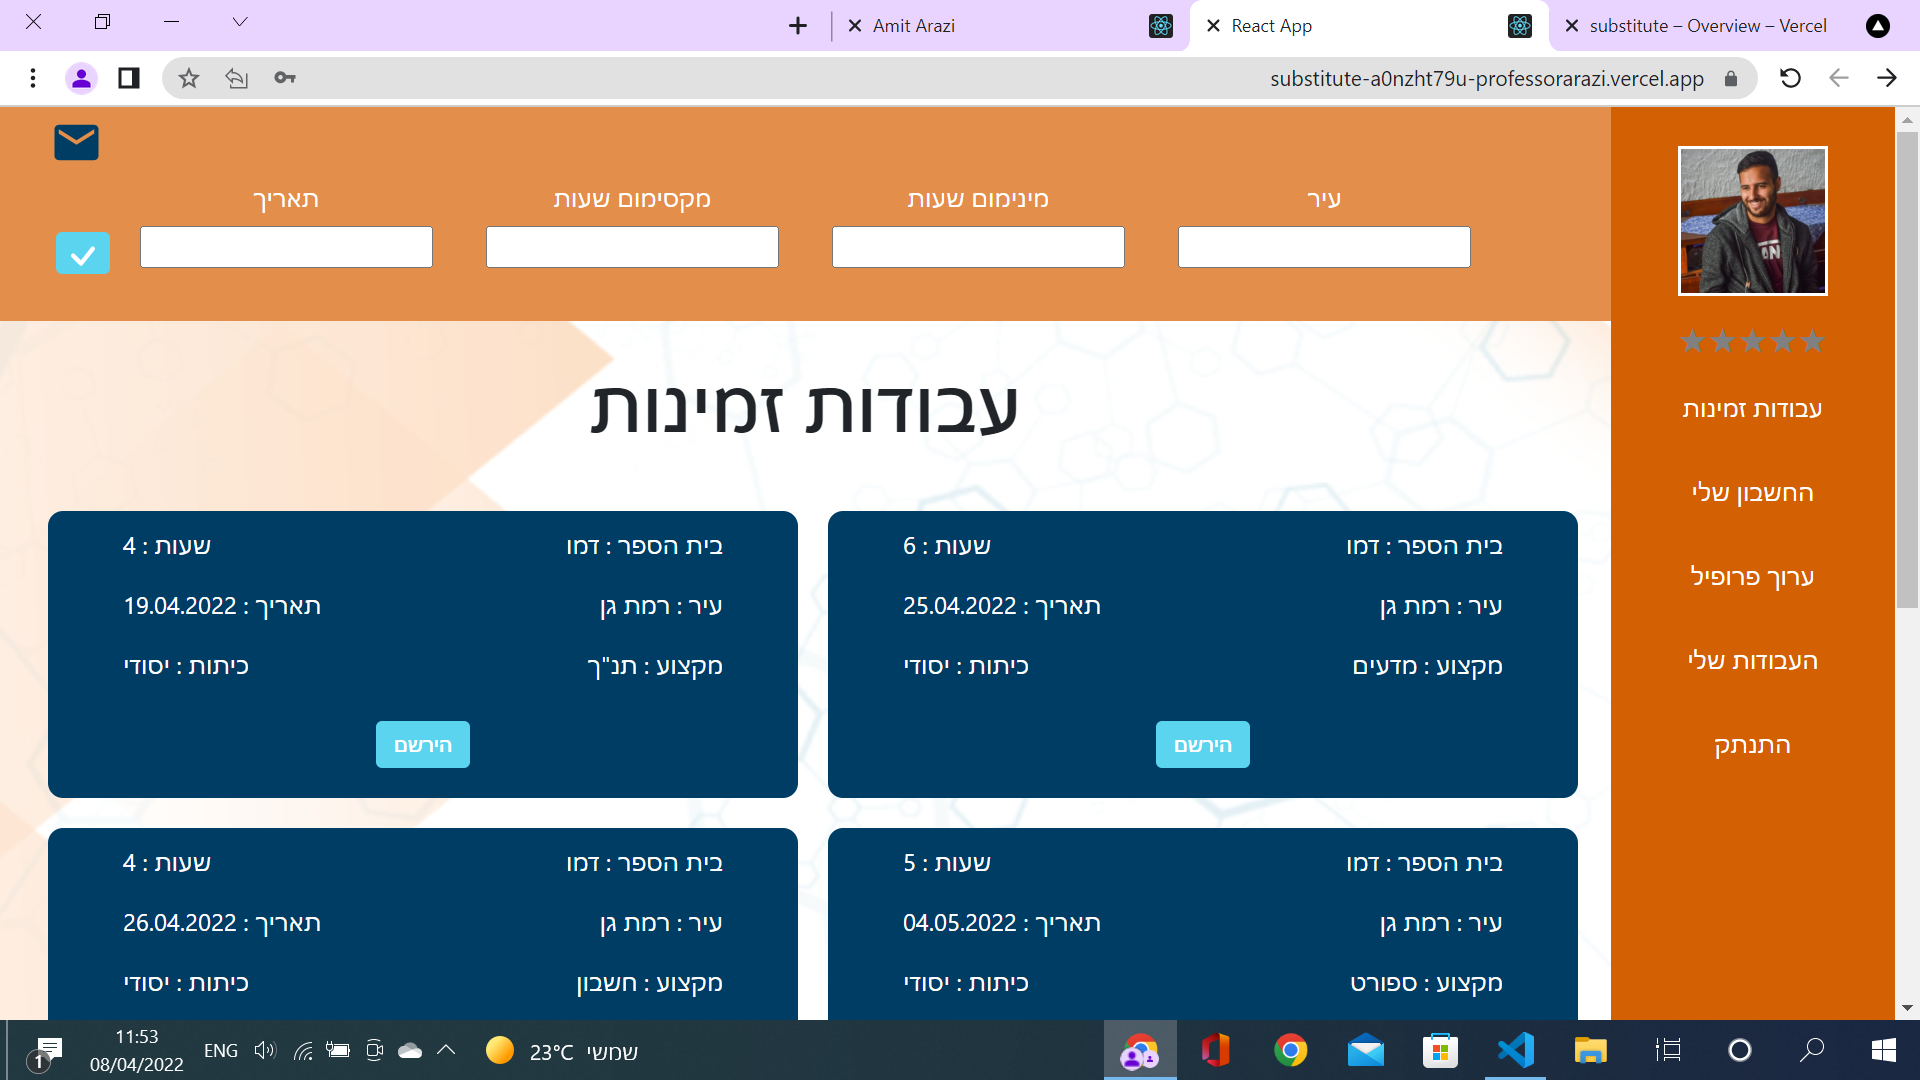
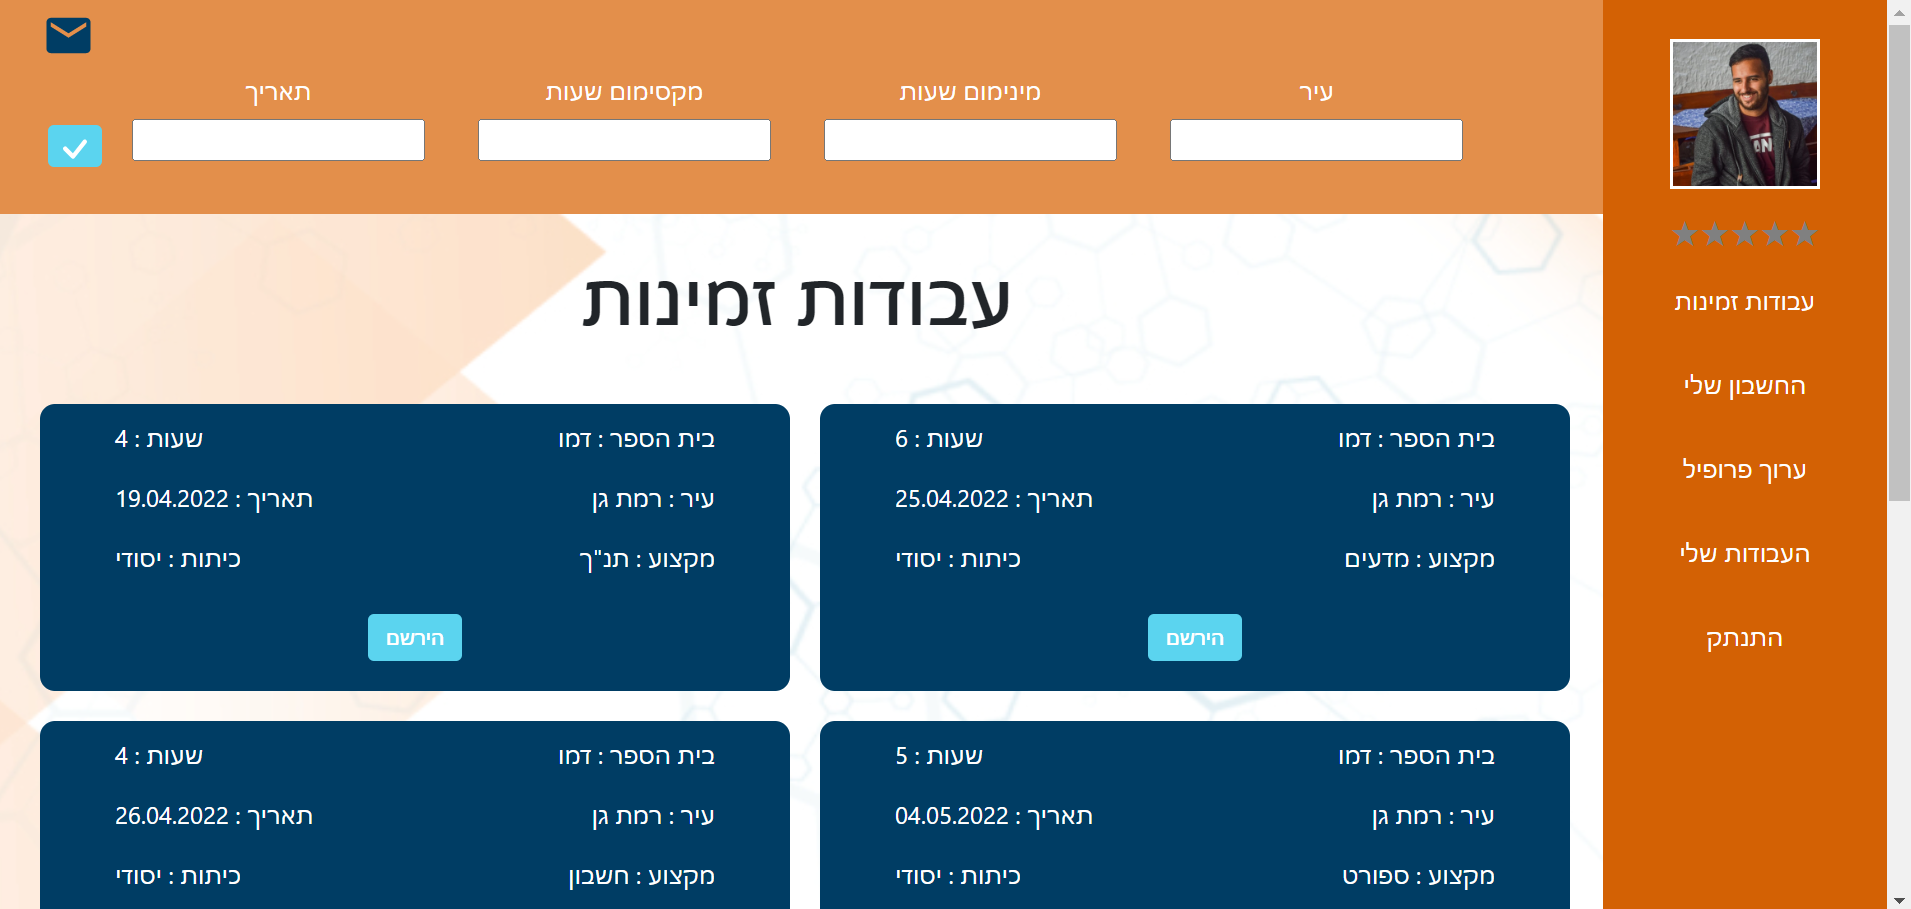
changed carousel

diff --git a/src/scss/_Projects.scss b/src/scss/_Projects.scss
@@ -13,7 +13,7 @@
 
 .carousel {
   position: absolute !important;
-  top: 9.2%;
+  top: 13%;
 }
 
 .carousel-background {
@@ -22,19 +22,19 @@
   left: 0;
   display: flex;
   justify-content: center;
+  height: 300px;
 }
 
 .carousel-slide {
-  width: 282px !important;
-  height: 185px !important;
-  border-radius: 6px;
+  width: 55% !important;
+  height: 160px !important;
 }
 
 .carousel-background__img {
   position: relative;
   top: 0;
   left: 0;
-  height: 373px;
+  height: 350px;
   width: 500px;
 }
 
@@ -120,5 +120,8 @@
       width: 90%;
       margin: 0 auto;
     }
+  }
+  .carousel-slide {
+    width: 75% !important;
   }
 }

diff --git a/src/scss/_config.scss b/src/scss/_config.scss
@@ -24,7 +24,7 @@ $secondary-color: #dedce2;
 }
 
 @mixin title {
-  margin: 0 auto 30px;
+  margin: 30px auto;
   font-size: 5rem !important;
   letter-spacing: 1rem;
   text-shadow: 0 0 8px rgb(97, 54, 212), 0 0 0.2em transparent;
